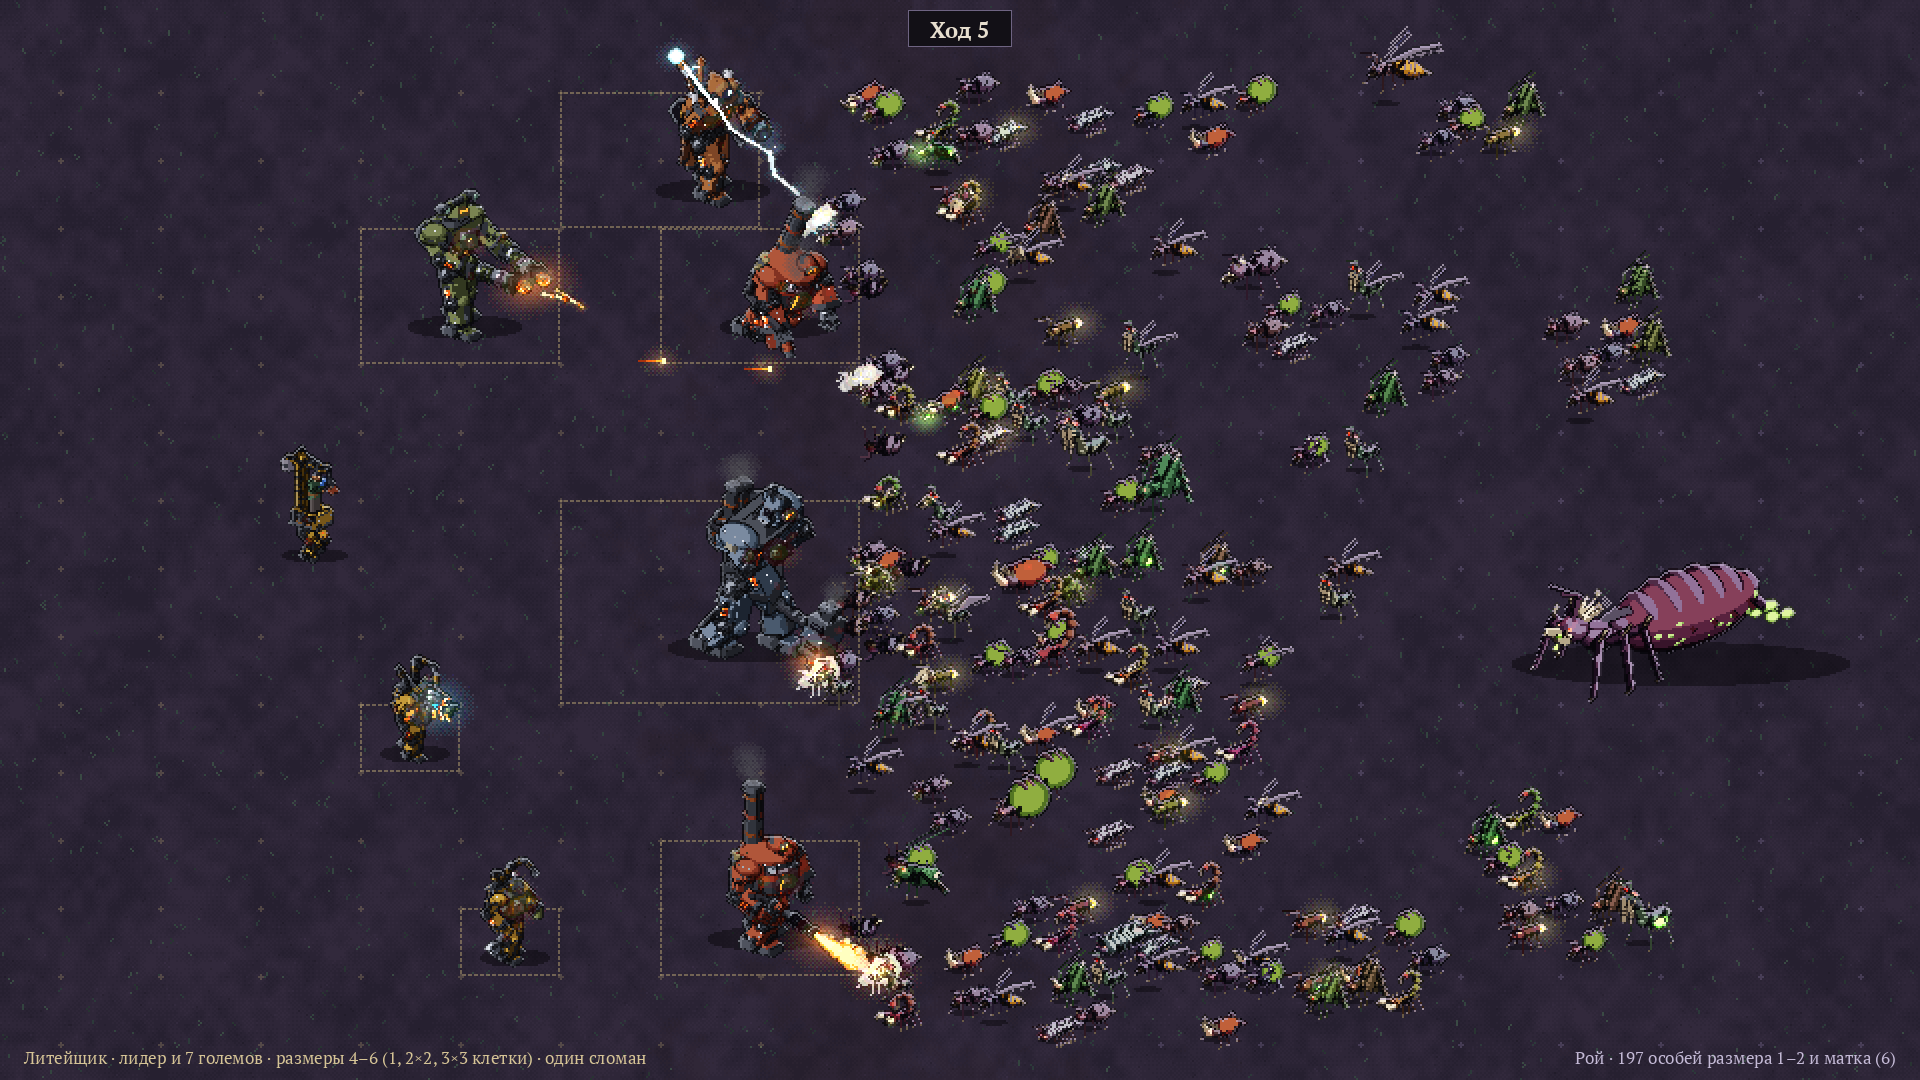
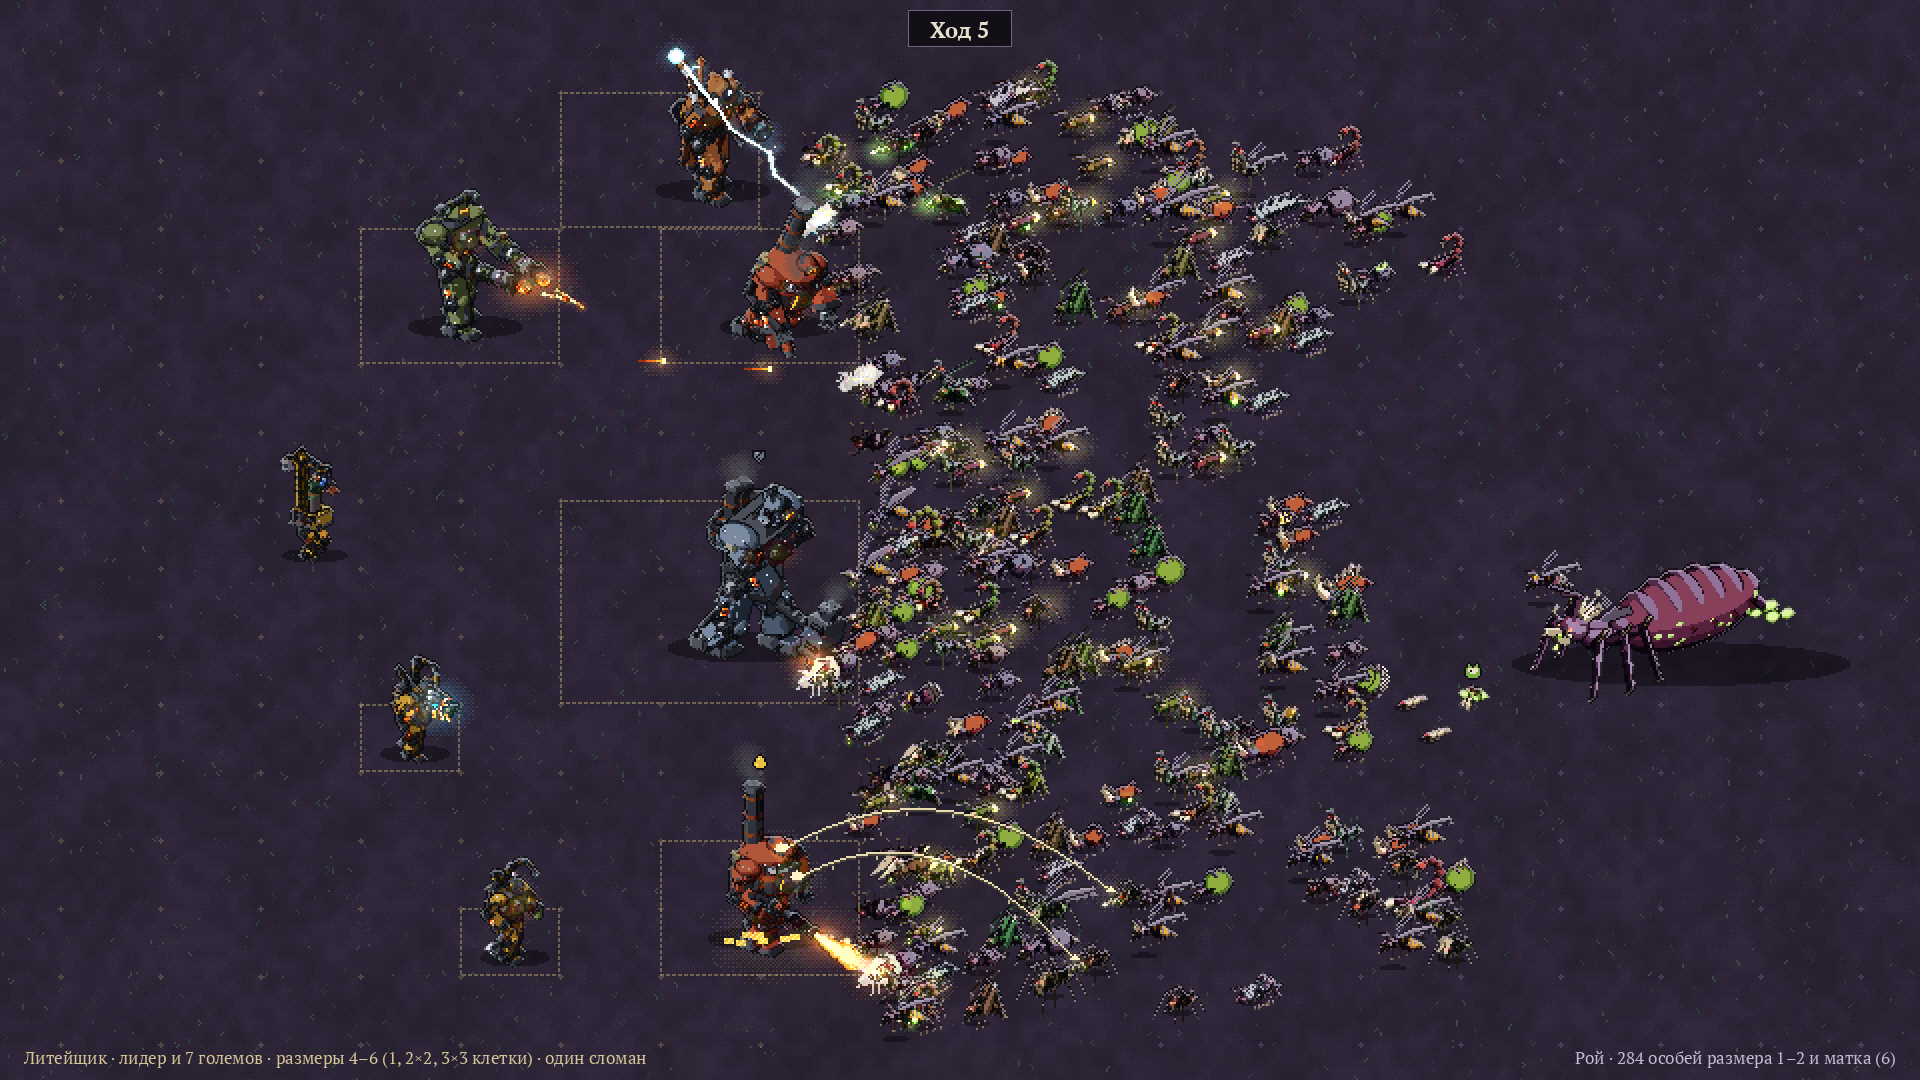
Сцены боя роя: пауки-плевуны с клеем, значки состояний, мутанты в толпе, стаи каждого лидера
Claude-Session: https://claude.ai/code/session_01Bh6a99SKMjjKSinDnrtssC

diff --git a/tools/sprites/battle.py b/tools/sprites/battle.py
@@ -102,12 +102,43 @@ def spark(sc, x, y, big=False):
     sc.glow(x, y, 14 if big else 10, hexc("#ffd890"), 0.6)
 
 
+def glue_arc(sc, a, b, h, col):
+    """A strand of sticky venom over the heads of the swarm: a light thread with a dark underside, drops hanging off
+    it, a glob at each end."""
+    n = int(np.hypot(b[0] - a[0], b[1] - a[1])) + 2
+    dark = col * 0.35
+    for i, t in enumerate(np.linspace(0, 1, n)):
+        x = a[0] + (b[0] - a[0]) * t
+        y = a[1] + (b[1] - a[1]) * t - h * 4 * t * (1 - t)
+        xi, yi = int(round(x)), int(round(y))
+        sc.rgb[yi + 1, xi] = sc.rgb[yi + 1, xi] * 0.3 + dark * 0.7
+        sc.rgb[yi, xi] = col
+        sc.occ[yi:yi + 2, xi] = True
+        if i % 23 == 11:                            # a drop hanging off the strand
+            sc.rgb[yi + 2:yi + 4, xi] = col * 0.85
+    for (x, y), r in ((a, 2), (b, 3)):
+        for dx in range(-r, r + 1):
+            for dy in range(-r, r + 1):
+                if dx * dx + dy * dy <= r * r:
+                    sc.rgb[int(y + dy), int(x + dx)] = col if dy < r - 1 else dark
+        sc.glow(x, y, 8 + 3 * r, col, 0.35)
+
+
+def tint(spr, col, k):
+    f = Sprite(spr.w, spr.h)
+    f.rgb, f.a = spr.rgb * (1 - k) + col * k, spr.a.copy()
+    f.ox, f.oy = spr.ox, spr.oy
+    return f
+
+
 def dead_bug(hue, seed):
     m = W.body(hue, (), "idle").transformed(rot_x(np.pi), (0, 10.0, 0)).transformed(rot_z(0.15))
     spr = render(m.scaled(1.0), 64, 56, 30, 48, **W.STYLE1)
     spr.ox, spr.oy = 30, 48
     return spr
 
+
+POOL = {"Матка": "matka", "Разум улья": "razum", "Пожиратель": "devourer", "Кукушка": "cuckoo"}   # its mutation pool
 
 LEADERS = {   # the swarm's leader: (name, size, file, evolutions bred by now: form → its evolutions)
     "Матка": ("матка", 6, "battle.png", {}),
@@ -139,11 +170,13 @@ def build(leader="Матка"):
         (4, 12, 4, "Механик", "idle", 0),
     ]
     fronts, targets = [], []
+    gpos = {}                                       # (frame, col, row) -> (x, y, sprite): for the states over them
     for (c, r, size, frame, pose, dx) in golems:
         n = CELLS[size]
         fx = X0 + (c + n / 2) * CW + dx
         fy = Y0 + (r + n * 0.72) * CH
         spr = F.build(frame, pose, k=GK[size])
+        gpos[(frame, c, r)] = (fx, fy, spr)
         def f(spr=spr, fx=fx, fy=fy, size=size, c=c, r=r, n=n):
             footprint(sc, c, r, n)
             shadow(sc, fx + 2, fy, 22 * n + 14, 6 + 3 * n)
@@ -168,22 +201,33 @@ def build(leader="Матка"):
         items.append((py, lambda: (shadow(sc, px + 30, py, 130, 16), put(sc, dv, px, py, mirror=True))))
 
     # ---------------- swarm: pressed against the golems, the ones being hit stand where the blows land
+    import swarm_mut as MU
+    import swarm_status as ST
     count = 0
     plans = (None,) * 4 + W.TRAITS
+    pool = [k for k, *_ in MU.POOLS["common"][3]] + [k for k, *_ in MU.POOLS[POOL[leader]][3]]
+    marks = []                                      # (state, x, top) glyphs to draw over the crowd afterwards
+    spiders = [(548, 486, "attack"), (566, 452, "attack"), (590, 506, "idle")]   # spitters, 2–3 cells behind the front
+    for (x, y, _) in spiders:
+        reserve.append((x - 22, y - 22, x + 22, y + 8))
 
     def front_at(y):
         xs = [x for (x, y0, y1) in fronts if y0 <= y <= y1]
         return max(xs) if xs else None
 
-    def bug(traits, pose, soldier, x, y, hit=False):
+    def bug(traits, pose, soldier, x, y, hit=False, rare=None, chimera=None, state=None):
         if any(a <= x <= c and b <= y <= d for a, b, c, d in reserve):
             return
         primary = traits[0] if traits and traits[0] != "giant" else None
         spr = W.build(traits, rnd.uniform(-0.16, 0.16), pose, soldier, k=1.0, genes=W.genes_for(rnd.randrange(10 ** 6)),
-                      evo=evo_of.get(primary, ()))
+                      evo=evo_of.get(primary, ()), rare=rare, chimera=chimera)
         placed.append((x, y))
         if hit:
             spr = flash(spr, 0.75)
+        if state == "frenzy":                       # the Devourer's feeding frenzy: a red flush and the glyph
+            spr = tint(spr, hexc("#e04030"), 0.22)
+        if state:
+            marks.append((state, x, ST.top_of(spr, y) - 11))
         def f(spr=spr, fx=x, fy=y):
             shadow(sc, fx - 1, fy, 14, 3)
             put(sc, spr, fx, fy, mirror=True)
@@ -201,19 +245,29 @@ def build(leader="Матка"):
         for ox, oy in ((0, 0), (12, -6), (10, 7)):
             bug((rnd.choice(plans),) if rnd.random() < 0.5 else (), "attack", False, tx + ox, ty + oy, hit=(ox == 0))
             count += 1
+    tight = leader == "Матка"                      # Матка's tight flocks: up to 6 small ones in a cell, the swarm narrower
+    if tight:
+        DENS = {7: 0.85, 8: 0.95, 9: 0.95, 10: 0.9, 11: 0.8, 12: 0.55, 13: 0.2, 14: 0.08, 15: 0.0}
+    else:
+        DENS = {7: 0.7, 8: 0.85, 9: 0.9, 10: 0.85, 11: 0.7, 12: 0.55, 13: 0.45, 14: 0.3, 15: 0.2}
     for c in range(7, 16):
         for r in range(14):
-            dens = {7: 0.7, 8: 0.85, 9: 0.9, 10: 0.85, 11: 0.7, 12: 0.55, 13: 0.45, 14: 0.3, 15: 0.2}[c]
+            cx, cy = X0 + c * CW + CW / 2, Y0 + r * CH + CH / 2
+            dens = DENS[c]
+            pack = leader == "Пожиратель" and abs(cx - (gx + 190)) < 170 and abs(cy - (gy + 10)) < 120
+            if pack:                                # the Devourer's pack: the flocks rushed where he rushed
+                dens = min(1.0, dens + 0.35)
             if (c >= 13 and 5 <= r <= 9) or rnd.random() > dens:
                 continue
             soldiers = rnd.random() < 0.12
-            nunits = 2 if soldiers else rnd.choice((2, 3, 3, 4))
-            cx, cy = X0 + c * CW + CW / 2, Y0 + r * CH + CH / 2
+            nunits = 2 if soldiers else rnd.choice((4, 5, 5, 6) if tight else (2, 3, 3, 4))
+            nunits += 1 if pack else 0
+            gapx, gapy = (9, 5) if tight else (12, 7)
             spots = []
             for _ in range(nunits):
                 for _t in range(30):
                     ox, oy = rnd.uniform(-CW * 0.5, CW * 0.5), rnd.uniform(-CH * 0.45, CH * 0.45)
-                    if all(abs(ox - a) > 12 or abs(oy - b) > 7 for a, b in spots):
+                    if all(abs(ox - a) > gapx or abs(oy - b) > gapy for a, b in spots):
                         break
                 spots.append((ox, oy))
                 fx, fy = cx + ox, cy + oy
@@ -231,8 +285,17 @@ def build(leader="Матка"):
                     traits += ("giant",)
                 near_front = fr is not None and fx < fr + 30
                 pose = "attack" if (near_front or c <= 8) and rnd.random() < 0.7 else "idle"
-                bug(traits, pose, soldiers and primary is None, fx, fy)
+                rare = rnd.choice(pool) if "giant" not in traits and rnd.random() < 0.07 else None
+                chim = rnd.choice(W.CHIMERAS) if leader == "Кукушка" and rnd.random() < 0.07 else None
+                state = None
+                if pack and np.hypot(fx - (gx + 150), fy - gy) < 80 and rnd.random() < 0.12:
+                    state = "frenzy"                # Кормовое безумие: those beside him while he eats
+                bug(traits, pose, soldiers and primary is None, fx, fy, rare=rare, chimera=chim, state=state)
                 count += 1
+    for (x, y, pose) in spiders:                    # the spitters stand back and spit glue over the heads of their own
+        spr = W.build(("spitter",), rnd.uniform(-0.1, 0.1), pose, False, k=1.0, genes=W.genes_for(500 + int(x)))
+        items.append((y, lambda spr=spr, x=x, y=y: (shadow(sc, x - 1, y, 16, 3), put(sc, spr, x, y, mirror=True))))
+        count += 1
     for i in range(10):
         y = rnd.uniform(70, 510)
         fr = front_at(y)
@@ -243,6 +306,17 @@ def build(leader="Матка"):
     if leader == "Матка":
         qs = W.queen(0.0, "attack", k=0.92)
         items.append((qy, lambda: (shadow(sc, qx + 30, qy, 170, 22), put(sc, qs, qx, qy, mirror=True))))
+        # Кладка: a clutch at her side hatching, two larvae already out; the Heiress keeps close and does not fight
+        cl = SA.render_small(SA.clutch(1), 1.0)
+        cxl, cyl = qx - 74, qy + 16
+        items.append((cyl, lambda: put(sc, cl, cxl, cyl)))
+        marks.append(("hatching", cxl, ST.top_of(cl, cyl) - 11))
+        for i, (dx_, dy_) in enumerate(((-34, 6), (-22, 22))):
+            lv = SL.build("личинка", "attack", 1.0)
+            items.append((cyl + dy_, lambda lv=lv, x=cxl + dx_, y=cyl + dy_: (shadow(sc, x, y, 12, 3), put(sc, lv, x, y, mirror=True))))
+        hr = W.build(("wings",), 0.0, "idle", False, k=1.0, genes=W.genes_for(31), rare="heir")
+        hx, hy = qx - 40, qy - 30
+        items.append((hy, lambda: (shadow(sc, hx, hy, 14, 3), put(sc, hr, hx, hy, mirror=True))))
     elif leader == "Разум улья":
         qs = SL.build("Разум улья", "idle", 1.0)
         items.append((qy, lambda: (shadow(sc, qx + 4, qy, 60, 10), put(sc, qs, qx, qy, mirror=True))))
@@ -254,15 +328,47 @@ def build(leader="Матка"):
         items.append((cy_, lambda: (shadow(sc, cx_, cy_ + 2, 22, 5), put(sc, ch, cx_, cy_))))
     count += 1
 
+    if leader == "Пожиратель":                     # the pack leaves him the bodies: the dead heaped at his jaws
+        for i, (dx_, dy_) in enumerate(((-34, 18), (-20, 30), (-46, 34), (-8, 40))):
+            spr = dead_bug(rnd.uniform(-0.15, 0.15), 20 + i)
+            items.append((py + dy_ - 3, lambda spr=spr, x=px + dx_, y=py + dy_: put(sc, spr, x, y, mirror=True)))
+
     for _, f in sorted(items, key=lambda t: t[0]):
         f()
     for (tx, ty) in targets:
         spark(sc, int(tx), int(ty) - 6, True)
+    # the spitters' glue: arcs over the swarm's heads into the Forge at the bottom, which is glued to its cell
+    import swarm_effects as E
+    glue = hexc("#e8dcb0")
+    hx_, hy_, hspr = gpos[("Горн", 6, 11)]
+    for (x, y, pose), (tx, ty) in zip(spiders, ((hx_ + 18, hy_ - 30), (hx_ + 10, hy_ - 44))):
+        if pose != "attack":
+            continue
+        glue_arc(sc, (x - 11, y - 7), (tx, ty), 30, glue)
+    ST.ground(sc, "glued", hx_ + 2, hy_, 34)
+    ST.glyph(sc, "glued", hx_, ST.top_of(hspr, hy_) - 12)
+    # acid and stings eat the Guard's armour
+    sx_, sy_, sspr = gpos[("Страж", 5, 6)]
+    ST.glyph(sc, "shred", sx_ + 8, ST.top_of(sspr, sy_) - 12)
+    for state, x, top in marks:
+        ST.glyph(sc, state, x, top)
+    if leader == "Кукушка":                       # the Architect bitten from behind: infected
+        ST.on_body(sc, lead, lx, ly, "infected", seed=4)
+        ST.glyph(sc, "infected", lx, ST.top_of(lead, ly) - 12)
+    if leader == "Разум улья":                    # one thought per flock: the whole flock's threads meet on one golem
+        mx_, my_, mspr = gpos[("Мудрец", 5, 0)]
+        aim = (mx_ + 6, my_ - 40)
+        near = [(x, y) for (x, y) in placed if aim[0] + 60 < x < aim[0] + 190 and aim[1] - 30 < y < aim[1] + 90]
+        for (x, y) in near[:9]:
+            SA.thread(sc, (x - 4, y - 12), aim, sag=-8, k=0.6)
+        SA.sigil(sc, aim[0], aim[1], 6)
+        kx_, ky_, kspr = gpos[("Механик", 3, 9)]  # the clouding: a mindless machine stalls
+        ST.on_body(sc, kspr, kx_, ky_, "stall")
+        ST.glyph(sc, "stall", kx_, ST.top_of(kspr, ky_) - 12)
     if leader == "Разум улья":                    # psi: a blow from the brain into the Guard, the clouding over its line
         SA.psi_wave(sc, (qx - 10, qy - 34), (gx + 10, gy - 70))
-        import swarm_status as ST                 # the psi piling up over the Guard, the Mechanic beside it stalled
-        g_ = F.build("Страж", "attack", k=GK[6])
-        ST.pips(sc, gx, ST.top_of(g_, gy) - 10, 3)
+        g_ = F.build("Страж", "attack", k=GK[6])  # the psi piling up over the Guard
+        ST.pips(sc, gx, ST.top_of(g_, gy) - 18, 3)
         for r in (40, 62, 84):
             SA.ring(sc, gx - 10, gy + 2, r, r * 0.3, SA.PHERO, 0.45)
         for k_ in range(8):                           # the machines' cores stall: sparks over them

diff --git a/tools/sprites/swarm_hud.py b/tools/sprites/swarm_hud.py
@@ -645,17 +645,20 @@ def battle_hud():
     # bottom: the flocks — kind, alive of all, a state if any
     import swarm_status as ST
     UI.plate(sc, 330, 448, 956, 536)
-    flocks_ = [((), "муравьи", 16, 23, None), (("stinger",), "скорпионы", 6, 7, "poison"), (("horn",), "жуки", 2, 2, None),
-               (("acid",), "бочонки", 1, 2, None), (("wings",), "осы", 3, 4, "fear"), (("spitter",), "пауки", 2, 2, None)]
+    others = [(("stinger",), "скорпионы", 31, 36, "poison"), (("horn",), "жуки", 12, 12, None),
+              (("acid",), "бочонки", 18, 24, None), (("wings",), "осы", 27, 33, "fear"), (("spitter",), "пауки", 3, 3, None)]
+    ants = count - 1 - sum(o[2] for o in others)                 # the strip adds up to the swarm counted on the field
+    flocks_ = [((), "муравьи", ants, ants + 27, None)] + others
     for k_, (tr, name, alive, tot, st) in enumerate(flocks_):
         x0 = 338 + k_ * 102
         UI.cell(sc, x0, 456, x0 + 96, 530, "new" if alive == tot else "normal")
         letters(sc, name, x0 + 8, 459, "text", 16, col=INK, jitter=1, seed=k_)
         icon(sc, tr[0] if tr else "ant", x0 + 6, 476, 2)
-        letters(sc, f"{alive}/{tot}", x0 + 44, 488, "title", 8, col=GOLD if alive == tot else (255, 150, 120), outline=False)
+        letters(sc, f"{alive}", x0 + 44, 482, "title", 8, col=GOLD if alive == tot else (255, 150, 120), outline=False)
+        letters(sc, f"из {tot}", x0 + 44, 495, "title", 8, col=PALE, outline=False)
         UI.meter(sc, x0 + 8, 514, x0 + 88, 7, min(tot, 10), round(min(tot, 10) * alive / tot), "#8a6aa8")
         if st:
-            ST.glyph(sc, st, x0 + 84, 484)
+            ST.glyph(sc, st, x0 + 87, 462)
     img = sc.image(S)
     UI.WOBBLE[0] = 0.0
     img.save(out("swarm_battle_hud.png"))

diff --git a/docs/ART.md b/docs/ART.md
@@ -418,6 +418,20 @@
 к середине похода роя видны эволюции: щитки муравьёв, жала-шприцы ос, пилы богомолов, кислотные
 брюшки, вторые рога жуков, клешни-тиски.
 
+В каждом бою видно и остальное, что есть у роя:
+- **пауки-плевуны** стоят за спинами своих и плюют клеем через их головы: нить с каплями дугой
+  уходит в нижний Горн, он приклеен к клетке (клей у ног и значок над ним), третий паук ждёт
+  перезарядки;
+- **значки состояний** над големами: у Стража разъедена броня, у Горна клей; у Разума над Стражем
+  ещё копится пси, а Механик сбоит от Помутнения — он темнее, над ним значок сбоя;
+- **мутанты** в толпе — примерно каждая пятнадцатая особь несёт мутацию из общего пула или пула своего
+  лидера, у Кукушки в толпе ещё и химеры;
+- **стаи лидера**. У Матки стаи тесные — по 4–6 особей в клетке: рой плотнее и уже, а рядом с ней
+  кладка вылупляется, две личинки уже ползут к фронту, Наследница держится у её головы. У Разума одна мысль
+  на стаю: нити от всей стаи сходятся на Мудреце. У Пожирателя свора: стаи сбились туда, где
+  он вцепился в Стража, у его пасти — тела, оставленные ему, а соседи в кормовом безумии
+  покраснели. У Кукушки Зодчий заражён: пятна на теле и значок над головой.
+
 ![Бой с каждым лидером роя](images/swarm_battles.png)
 
 ### Эволюция форм
